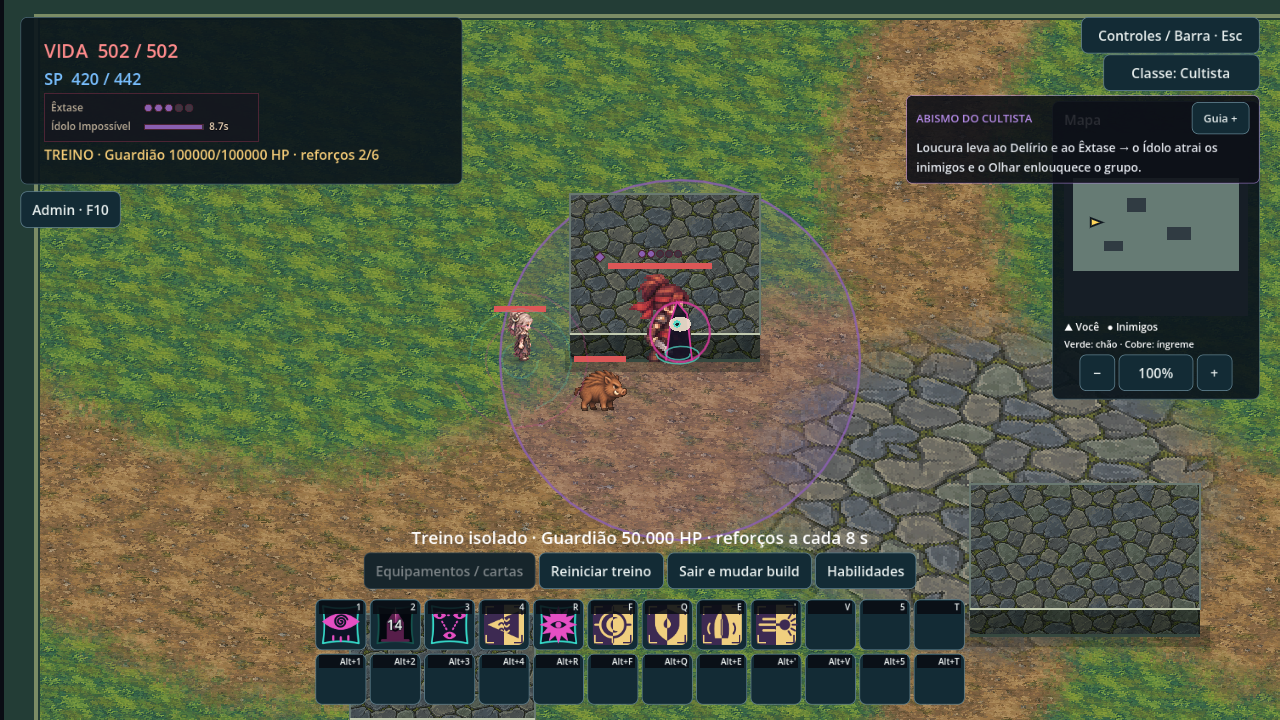
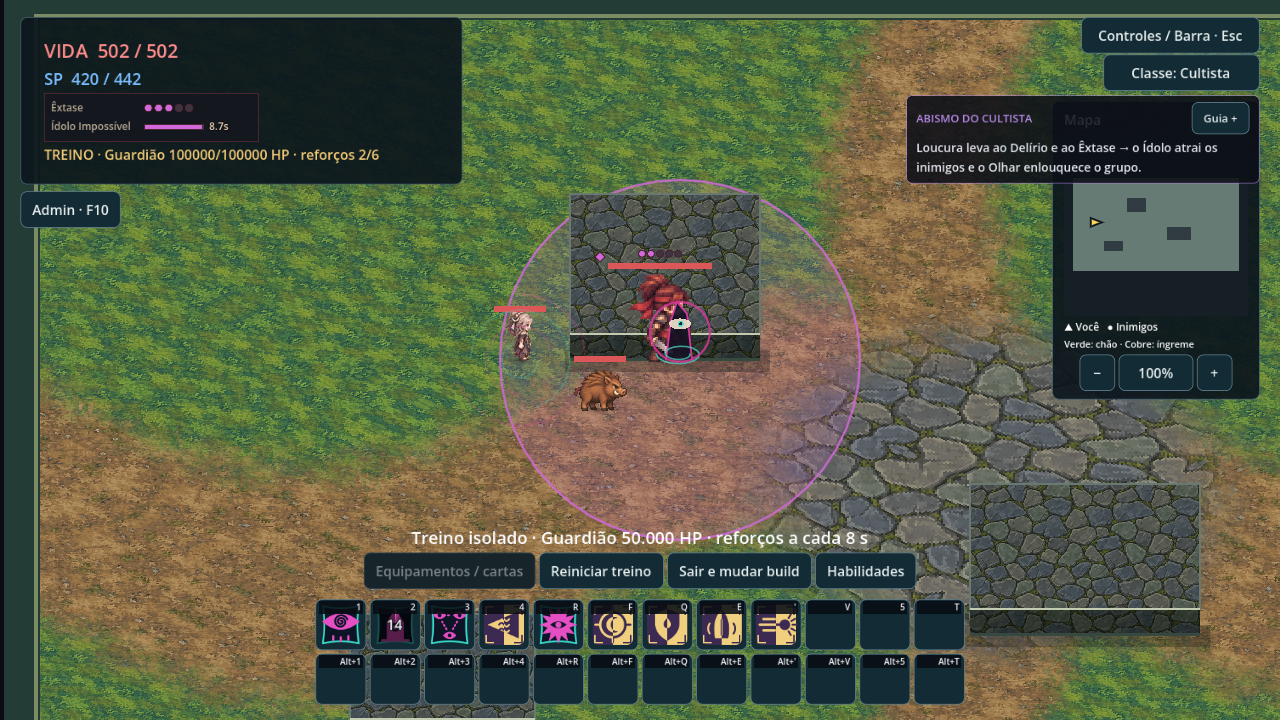
fix(e10a): T12 shadow HUD colour d16ad8 (A23), captures and receipt refreshed

diff --git a/docs/epics/e10a/t12_delivery.md b/docs/epics/e10a/t12_delivery.md
@@ -12,7 +12,7 @@
 | `scripts/classes/bases/acolyte/acolyte_base.gd` | `hud_state`: Loucura em `target_marks`, em 5 degraus (`pips`, chave `madness`, `shadow`) e selo `madness_delirium` (`badge`) para o inimigo em Delírio. Sem recurso. |
 | `scripts/classes/priest/priest_kit.gd` | `hud_state`: Graça (pips, ∞ com prazo na Hora Santa), Égide e Hora Santa (timers), zona do Santuário, selo de Luz (badge). |
 | `scripts/classes/cultist/cultist_kit.gd` | `hud_state`: Êxtase (pips 0–5, só com a passiva ativa) e Ídolo (timer e zona circular `idol`). Não publica Loucura. |
-| `scripts/ui/hud/hud_palette.gd` | **Fora da posse da T12.** Uma linha: `&"shadow": Color("8a5fb0")`. Ver limitação 1. |
+| `scripts/ui/hud/hud_palette.gd` | **Fora da posse da T12.** Uma linha: `&"shadow": Color("d16ad8")` (autorizado pela Astra, A23 em `5c6b03df`; mesma cor dos projéteis de sombra). Contraste legível nas capturas; a `8a5fb0` não foi necessária. |
 | `tests/e10a/hud_family_test.gd` | Teste novo, 131 checagens (118 headless). |
 
 ### Composição (A18)
@@ -33,21 +33,21 @@ Antes: `editor_import` duas vezes e `e07_f1_import_test` (refeito depois de cada
 
 Suíte completa **não** rodada (como pedido). Os avisos `duplicate HUD key` e `invalid HUD state` na saída do `hud_family_test` são esperados: vêm dos testes de colisão e de módulo inválido.
 
-Hashes (SHA256): `hud_family_test.gd` `66ac74b12e3c545d…` (prefixo); verificar com `sha256sum` no commit.
+Depois da A23 (cor `d16ad8`), `e07_f1_import_test` refeito e `hud_components_test` (168), `hud_integration_test` (234) e `hud_family_test` (118) rodados de novo: 0 falhas.
 
 ## Capturas nativas (Godot 4.7.2, janela e renderer reais, 1280×720)
 `docs/epics/e10a/t12_evidence/`, geradas por `hud_family_test.gd -- <dir>` (131 checagens, 0 falhas):
 
 | Arquivo | SHA256 |
 |---|---|
[6 lines of base64/hex data omitted]
 
 Priest: Graça (3 pips), Égide, círculo do Santuário e selo. Cultista: Êxtase (3 pips), Ídolo (timer) e zona do Ídolo; Loucura sobre o inimigo. Acólito: só marcas de Loucura sobre os inimigos.
 
 ## Limitações
-1. **Paleta:** `HudPalette.ELEMENT_COLORS` não tinha `shadow`, e `KitResourcePanel`/`KitWorldOverlay` descartam a entrada inteira de elemento desconhecido. Sem a linha acima, Êxtase, Ídolo e Loucura não aparecem. Pedi autorização à arquitetura; sem resposta até o commit, a linha segue no commit e deve ser confirmada ou revertida pela T13/Astra (a cor `8a5fb0` é provisória, de playtest).
+1. **Paleta:** a entrada `shadow` é a única mudança em `hud_palette.gd` (A23); sem ela, Êxtase, Ídolo e Loucura seriam descartados pelo painel e pelos overlays.
 2. O Acólito sem evolução não tem linha de recurso: a Loucura aparece só como marcas sobre os inimigos (painel oculto). Vale para a base com qualquer evolução, que também publica as marcas.
 3. A Loucura é mostrada em degraus de 20 (`ceil(Loucura/100×5)`); o valor exato não é exposto na marca. Sem fórmula nova: a leitura vem de `MadnessAuthority.describe_enemy`.
 4. `skills` não é publicado por nenhum dos três módulos (fora do C9); a união de `skills` só é exercida pelo teste de colisão, com módulos de teste.
